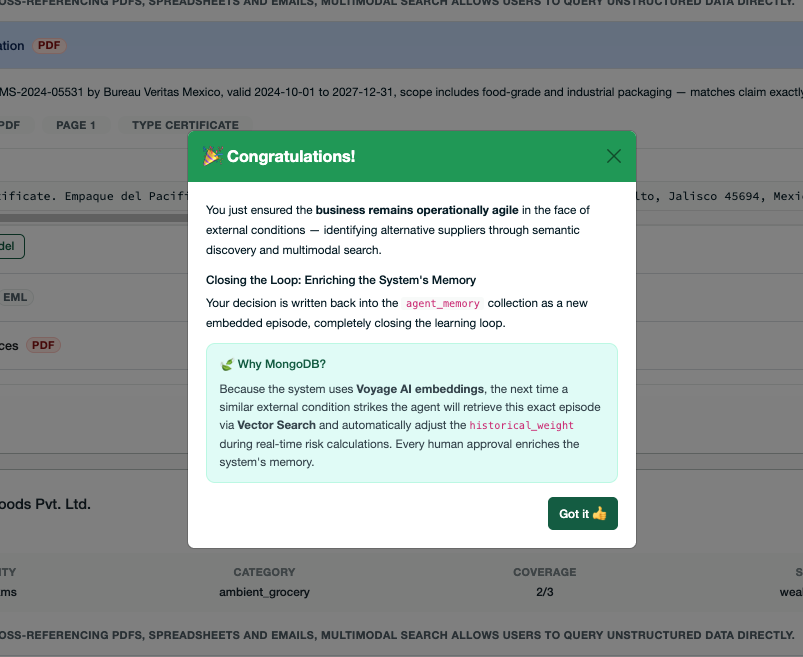
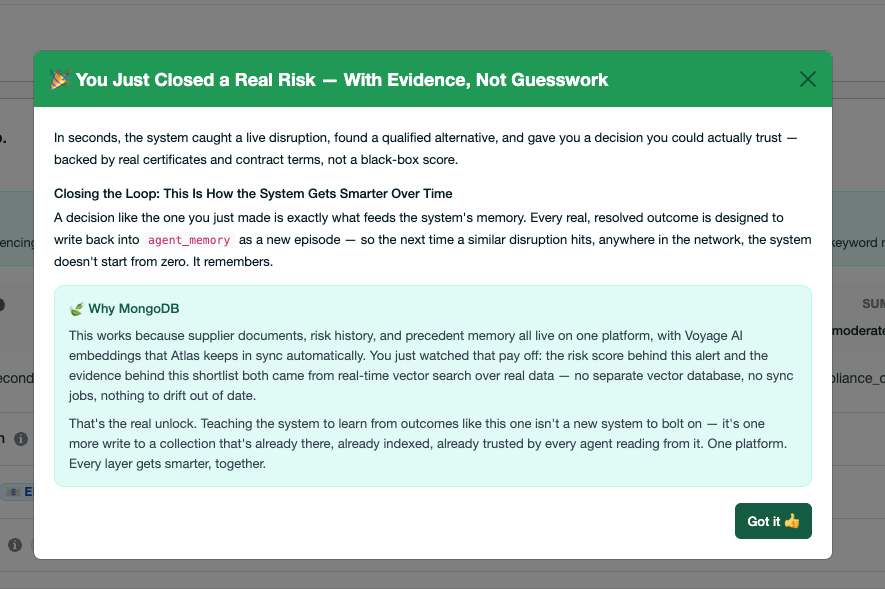
copy: rename Escalate to Elect
Also includes the ReAct Agent to Agent rename for this file,
since both changes touched overlapping lines.

diff --git a/frontend/components/talkTracks/HowToStep3.jsx b/frontend/components/talkTracks/HowToStep3.jsx
@@ -21,7 +21,7 @@ const HowToStep3 = () => {
 
       <Body style={bodyStyle}>
         This is <Lead>Step 3 · Search for Alternative Suppliers</Lead> — Phase 2
-        of the demo, where the disruption gets resolved. A second ReAct agent
+        of the demo, where the disruption gets resolved. A second agent
         searches the retailer&apos;s unstructured document library — PDFs,
         emails, contracts, audit reports — to find suppliers that can actually
         replace the critical one you selected in Step 2, and proves each claim
@@ -185,11 +185,11 @@ const HowToStep3 = () => {
           }
         />
         <OrderedListItem
-          title="Close the loop with Escalate"
+          title="Close the loop with Elect"
           description={
             <>
               <Body style={bodyStyle}>
-                Click <Lead>Escalate</Lead> at the bottom right of a card. A
+                Click <Lead>Elect</Lead> at the bottom right of a card. A
                 full-page <Lead>Congratulations!</Lead> modal confirms the
                 decision; <Lead>Got it 👍</Lead> closes it. The approval is
                 written back to MongoDB Atlas and enriches the agent&apos;s
@@ -197,8 +197,8 @@ const HowToStep3 = () => {
               </Body>
               <Screenshot
                 src="/images/howTo/end.png"
-                alt="Congratulations modal shown after escalating an alternative supplier"
-                caption="Escalate — the human approval that closes the loop."
+                alt="Congratulations modal shown after electing an alternative supplier"
+                caption="Elect — the human approval that closes the loop."
               />
               <SayThis>
                 &ldquo;A human made the call, and the system just learned from
